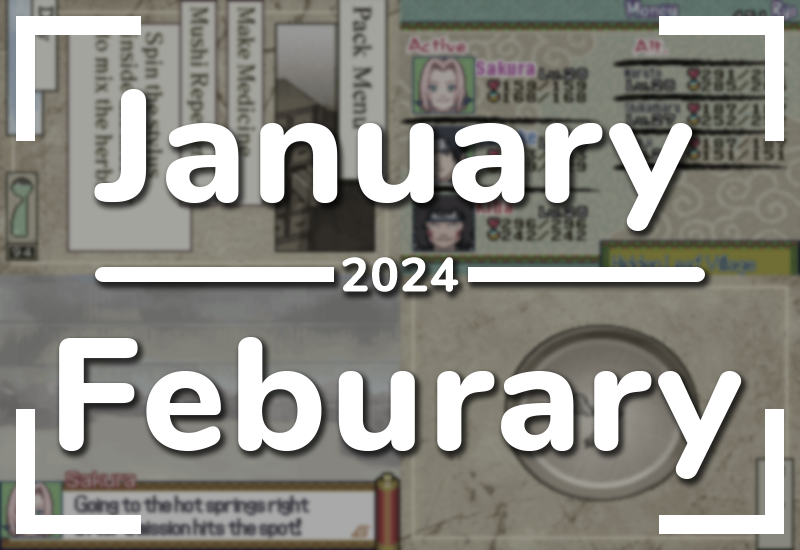
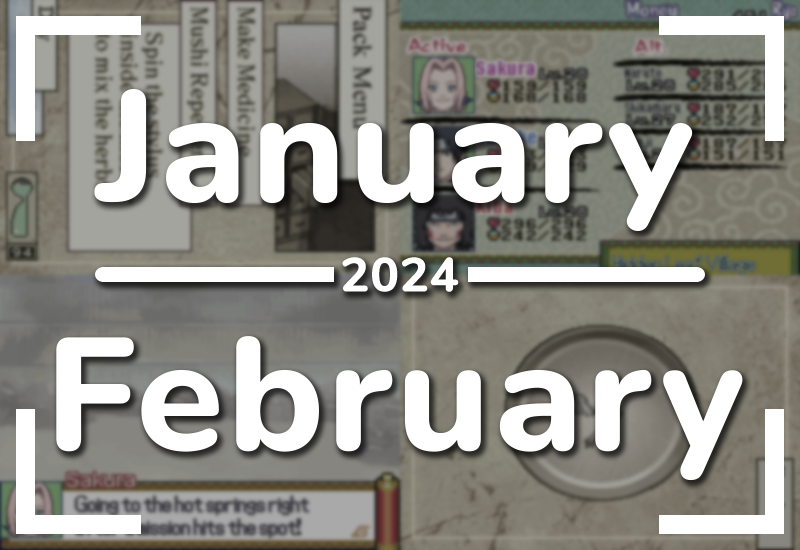
Add January - February Progress Report

diff --git a/content/blog/0051.2025-03-01-january-february-progress-report/en.md b/content/blog/0051.2025-03-01-january-february-progress-report/en.md
@@ -1,0 +1,57 @@
+---
+title: &title "January - February Progress Report"
+description: &desc "We're back with another round of progress updates, and this time it's a hat-trick!"
+locale: 'en'
+navigation:
+  author: 'Phantom'
+  year: 2025
+  month: 03
+  day: 01
+  tags: ['progress-report', 'fma', 'successors', 'mushishi', 'kiragame']
+  image: '0051/00_thumbnail.png'
+head:
+  meta:
+  - property: 'og:title'
+    content: *title
+  - property: 'og:description'
+    content: *desc
+  - property: 'og:image'
+    content: &img 'https://agtteam.net/images/blog/0051/00_thumbnail.png'
+  - property: 'og:url'
+    content: 'https://agtteam.net/blog/2025-03-01-january-february-progress-report'
+  - property: 'og:type'
+    content: 'article'
+  - name: 'twitter:title'
+    value: *title
+  - name: 'twitter:description'
+    value: *desc
+  - name: 'twitter:image'
+    value: *img
+  - name: 'twitter:card'
+    value: 'summary_large_image'
+---
+We're back with another round of progress updates, and this time it's a hat-trick!
+
+## \[PS2\] Fullmetal Alchemist 3: The Girl Who Succeeds God
+
+![Fullmetal Alchemist 3: The Girl Who Succeeds God screenshot](/images/blog/0051/01_fma.png)
+
+With the exception of the cutscenes, FMA 3 is now fully translated thanks to Iredc's hard work! We're still investigating how to add subtitles to those, but in the meantime our hacker, Illidan, has been making various fixes and improvements, including being able to create a patch which isn't the size of the original game(!)
+
+## \[NDS\] Death Note: Successors to L
+
+![Death Note: Successors to L screenshot](/images/blog/0051/02_deathnote.png)
+
+Successors to L has now reached a whopping 70% translated thanks to translator creeper! Illidan has also been battling the nightmarish programming in this game, and has made great progress with both text and image insertion, as well as removing the hard-coded character limits in certain areas. Work still needs to be done on improving the font rendering, but we're hoping to emerge from this battle-of-wits victorious.
+
+## \[NDS\] Mushishi: Amefuru Sato
+
+![Mushishi: Amefuru Sato screenshot](/images/blog/0051/03_mushishi.png)
+
+All known ~~mushi~~ bugs have now been accounted for, and the final proofreading round is making progress! We hope to have this patch out for everyone to enjoy in the near-ish future.
+
+## Other
+
+![Death Note: Kira Game screenshot](/images/blog/0051/04_other.png)
+
+The Death Note: Kira Game patch has been updated to v1.3! This update fixes the Japanese text in Mello's Max Influence line, as well as a few other typos. Grab it [here](/kiragame)! Remember to use the original, Japanese game when updating. 

diff --git a/content/blog/0004.2019-09-01-july-august-progress-report/en.md b/content/blog/0004.2019-09-01-july-august-progress-report/en.md
@@ -23,7 +23,7 @@ head:
     content: 'article'
   - name: 'twitter:title'
     value: *title
-  - name: 'twitter:descripton'
+  - name: 'twitter:description'
     value: *desc
   - name: 'twitter:image'
     value: *img
@@ -44,14 +44,14 @@ A patch covering the ‘essentials’ was reportedly scheduled for release by [J
 
 ## \[NDS\] Chou Soujuu Mecha MG (Non-Anime)
 
-![Chou Soujuu Mecha MG screenshot](/images/blog/0004/187392247250_0.png)
+![Chou Soujuu Mecha MG screenshot](/images/blog/0004/187392247250_1.png)
 
 Continuing with non-anime games, I’m delighted to say that after 5 months of hiatus, work has begun on this project once again! Supper is bearing the brunt of proofreading, with 120 missions and a likely vast amount of typos to go through.
 
 
 ## \[NDS\] Tengen Toppa Gurren Lagann
 
-![Tengen Toppa Gurren Lagann screenshot](/images/blog/0004/187392247250_0.png)
+![Tengen Toppa Gurren Lagann screenshot](/images/blog/0004/187392247250_2.png)
 
 Illidan has been working tirelessly, creating new and updated scripts to get this patch into motion! There’s still a fair bit that I need to finish and touch up, but as it stands, this is likely to be the next release.
 

diff --git a/content/blog/0045.2024-03-01-january-february-progress-report/en.md b/content/blog/0045.2024-03-01-january-february-progress-report/en.md
@@ -1,5 +1,5 @@
 ---
-title: &title "January - Feburary Progress Report"
+title: &title "January - February Progress Report"
 description: &desc "And just like that, March is here! How has the new year been treating you? Here’s how we’ve been getting on…"
 locale: 'en'
 navigation:
@@ -23,7 +23,7 @@ head:
     content: 'article'
   - name: 'twitter:title'
     value: *title
-  - name: 'twitter:descripton'
+  - name: 'twitter:description'
     value: *desc
   - name: 'twitter:image'
     value: *img

diff --git a/content/blog/0001.2019-02-03-behind-the-scenes-dgray/en.md b/content/blog/0001.2019-02-03-behind-the-scenes-dgray/en.md
@@ -23,7 +23,7 @@ head:
     content: 'article'
   - name: 'twitter:title'
     value: *title
-  - name: 'twitter:descripton'
+  - name: 'twitter:description'
     value: *desc
   - name: 'twitter:image'
     value: *img

diff --git a/content/blog/0003.2019-07-01-june-progress-report/en.md b/content/blog/0003.2019-07-01-june-progress-report/en.md
@@ -23,7 +23,7 @@ head:
     content: 'article'
   - name: 'twitter:title'
     value: *title
-  - name: 'twitter:descripton'
+  - name: 'twitter:description'
     value: *desc
   - name: 'twitter:image'
     value: *img

diff --git a/content/blog/0006.2019-11-06-behind-the-scenes-gurren/en.md b/content/blog/0006.2019-11-06-behind-the-scenes-gurren/en.md
@@ -23,7 +23,7 @@ head:
     content: 'article'
   - name: 'twitter:title'
     value: *title
-  - name: 'twitter:descripton'
+  - name: 'twitter:description'
     value: *desc
   - name: 'twitter:image'
     value: *img

diff --git a/content/blog/0007.2020-05-01-march-april-progress-report/en.md b/content/blog/0007.2020-05-01-march-april-progress-report/en.md
@@ -23,7 +23,7 @@ head:
     content: 'article'
   - name: 'twitter:title'
     value: *title
-  - name: 'twitter:descripton'
+  - name: 'twitter:description'
     value: *desc
   - name: 'twitter:image'
     value: *img

diff --git a/content/blog/0008.2020-05-10-behind-the-scenes-medusa/en.md b/content/blog/0008.2020-05-10-behind-the-scenes-medusa/en.md
@@ -23,7 +23,7 @@ head:
     content: 'article'
   - name: 'twitter:title'
     value: *title
-  - name: 'twitter:descripton'
+  - name: 'twitter:description'
     value: *desc
   - name: 'twitter:image'
     value: *img

diff --git a/content/blog/0009.2020-05-27-medusa-patch-release/en.md b/content/blog/0009.2020-05-27-medusa-patch-release/en.md
@@ -23,7 +23,7 @@ head:
     content: 'article'
   - name: 'twitter:title'
     value: *title
-  - name: 'twitter:descripton'
+  - name: 'twitter:description'
     value: *desc
   - name: 'twitter:image'
     value: *img

diff --git a/content/blog/0010.2020-07-01-may-june-progress-report/en.md b/content/blog/0010.2020-07-01-may-june-progress-report/en.md
@@ -23,7 +23,7 @@ head:
     content: 'article'
   - name: 'twitter:title'
     value: *title
-  - name: 'twitter:descripton'
+  - name: 'twitter:description'
     value: *desc
   - name: 'twitter:image'
     value: *img

diff --git a/content/blog/0011.2020-09-01-july-august-progress-report/en.md b/content/blog/0011.2020-09-01-july-august-progress-report/en.md
@@ -23,7 +23,7 @@ head:
     content: 'article'
   - name: 'twitter:title'
     value: *title
-  - name: 'twitter:descripton'
+  - name: 'twitter:description'
     value: *desc
   - name: 'twitter:image'
     value: *img

diff --git a/content/blog/0012.2020-11-01-september-october-progress-report/en.md b/content/blog/0012.2020-11-01-september-october-progress-report/en.md
@@ -23,7 +23,7 @@ head:
     content: 'article'
   - name: 'twitter:title'
     value: *title
-  - name: 'twitter:descripton'
+  - name: 'twitter:description'
     value: *desc
   - name: 'twitter:image'
     value: *img
